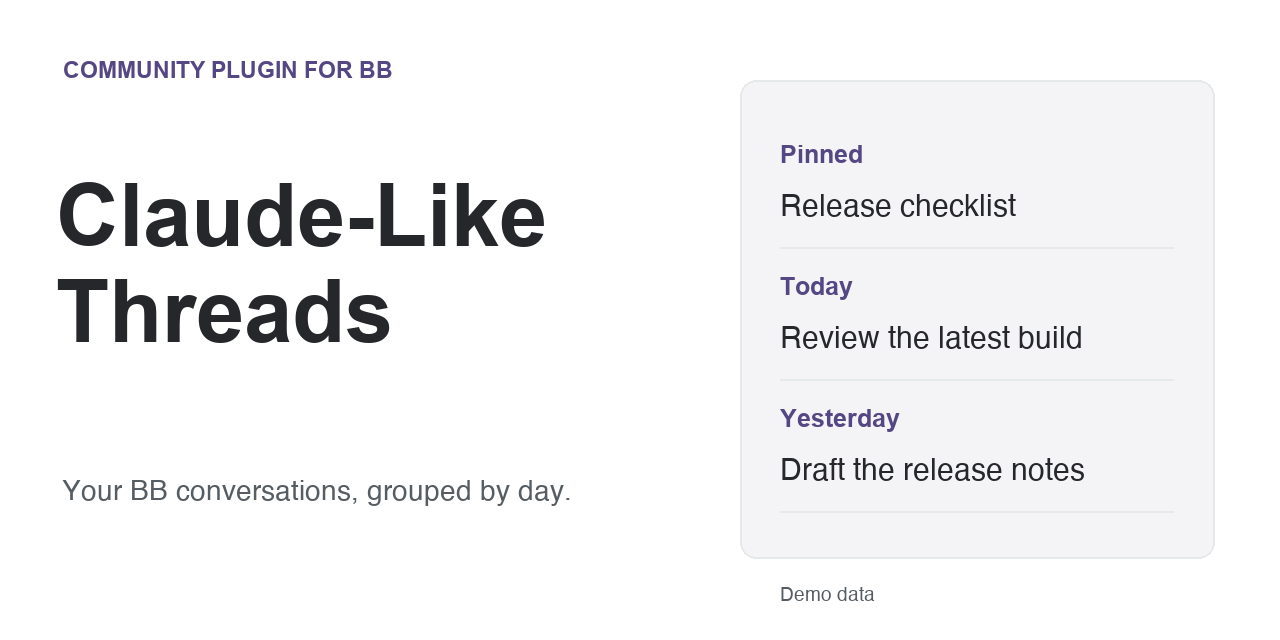
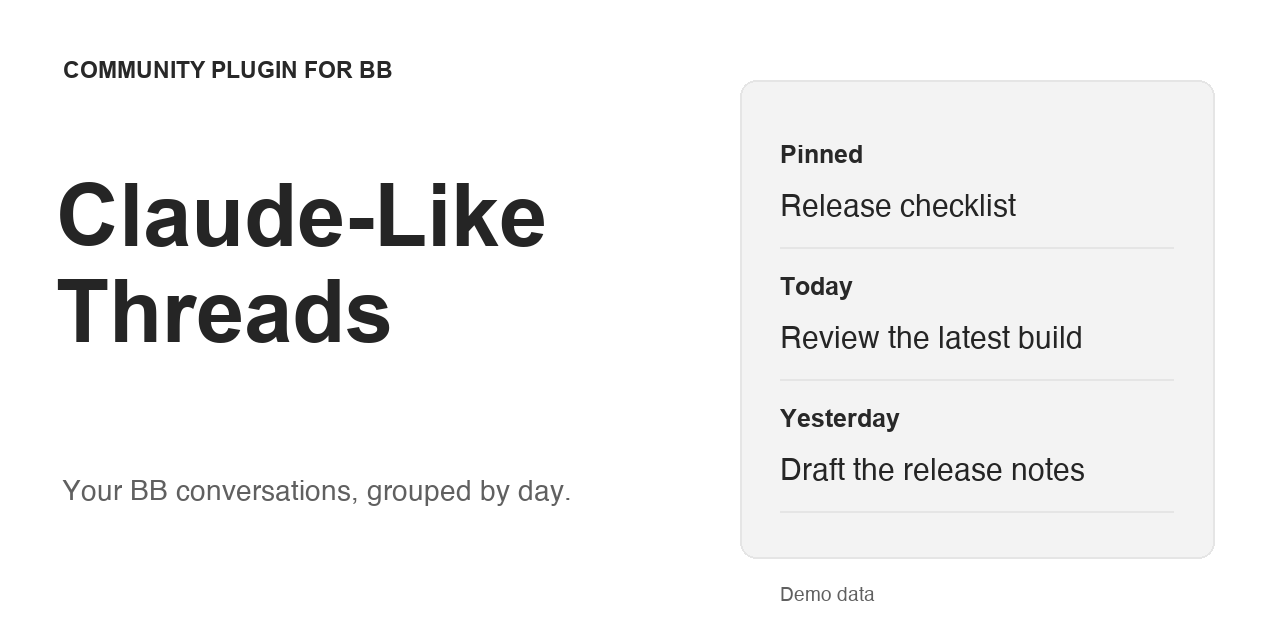
Match BB’s monochrome presentation

diff --git a/docs/index.html b/docs/index.html
@@ -2,6 +2,6 @@
 <html lang="en"><head><meta charset="utf-8"><meta name="viewport" content="width=device-width, initial-scale=1">
 <title>Claude-Like Threads · BB plugin</title><meta name="description" content="Pick up yesterday’s conversation across all your BB projects.">
 <meta property="og:type" content="website"><meta property="og:url" content="https://startsevdev.github.io/bb-plugin-claude-like-threads/"><meta property="og:title" content="Claude-Like Threads"><meta property="og:description" content="Pick up yesterday’s conversation across all your BB projects.">
-<meta property="og:image" content="https://raw.githubusercontent.com/startsevdev/bb-plugin-claude-like-threads/main/assets/social.png"><meta property="og:image:width" content="1280"><meta property="og:image:height" content="640"><meta property="og:image:alt" content="Claude-Like Threads — Pick up yesterday’s conversation across all your BB projects."><meta name="twitter:card" content="summary_large_image">
+<meta property="og:image" content="https://raw.githubusercontent.com/startsevdev/bb-plugin-claude-like-threads/main/assets/social.png?v=5bc4ad301f"><meta property="og:image:width" content="1280"><meta property="og:image:height" content="640"><meta property="og:image:alt" content="Claude-Like Threads — Pick up yesterday’s conversation across all your BB projects."><meta name="twitter:card" content="summary_large_image">
 <style>*{box-sizing:border-box}body{margin:0;background:#f7f8f8;color:#222;font:1.15rem/1.5 system-ui,sans-serif}main{max-width:960px;margin:6vh auto;padding:20px}img{width:100%;border:1px solid #ddd;border-radius:16px}a{display:inline-block;padding:.7em 1.1em;border-radius:7px;background:#242729;color:white;font-weight:600;text-decoration:none}</style></head>
-<body><main><img src="https://raw.githubusercontent.com/startsevdev/bb-plugin-claude-like-threads/main/assets/social.png" alt="Claude-Like Threads"><p>Pick up yesterday’s conversation across all your BB projects.</p><a href="https://github.com/startsevdev/bb-plugin-claude-like-threads#install">View features and install on GitHub</a></main></body></html>
+<body><main><img src="https://raw.githubusercontent.com/startsevdev/bb-plugin-claude-like-threads/main/assets/social.png?v=5bc4ad301f" alt="Claude-Like Threads"><p>Pick up yesterday’s conversation across all your BB projects.</p><a href="https://github.com/startsevdev/bb-plugin-claude-like-threads#install">View features and install on GitHub</a></main></body></html>
